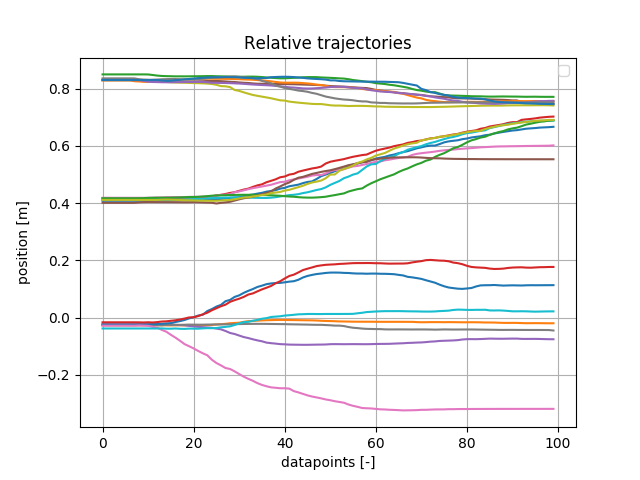
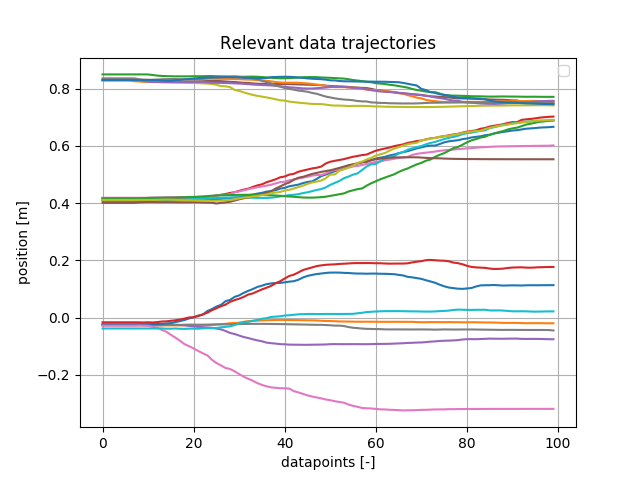
added welford and normal button, debugged the refinement a bitmore

Changed region(s): [[0.3438, 0.0625, 0.6875, 0.125]]

diff --git a/gui/nodes/gui.py b/gui/nodes/gui.py
@@ -90,7 +90,7 @@ class experimentGUI(QMainWindow):
         self.centralwidget = QWidget(self)
         self.centralwidget.setObjectName("centralwidget")
         self.groupBox_2 = QGroupBox(self.centralwidget)
-        self.groupBox_2.setGeometry(QRect(350, 690, 351, 171))
+        self.groupBox_2.setGeometry(QRect(350, 690, 351, 241))
         self.groupBox_2.setObjectName("groupBox_2")
         self.pushButton_6 = QPushButton(self.groupBox_2)
         self.pushButton_6.setGeometry(QRect(0, 120, 150, 27))
@@ -107,6 +107,23 @@ class experimentGUI(QMainWindow):
         self.pushButton_10 = QPushButton(self.groupBox_2)
         self.pushButton_10.setGeometry(QRect(180, 30, 150, 27))
         self.pushButton_10.setObjectName("pushButton_10")
+        self.radioButton_2 = QRadioButton(self.groupBox_2)
+        self.radioButton_2.setGeometry(QRect(40, 150, 117, 22))
+        self.radioButton_2.setObjectName("radioButton_2")
+        self.radioButton_3 = QRadioButton(self.groupBox_2)
+        self.radioButton_3.setGeometry(QRect(40, 180, 117, 22))
+        self.radioButton_3.setObjectName("radioButton_3")
+        self.pushButton_24 = QPushButton(self.groupBox_2)
+        self.pushButton_24.setGeometry(QRect(180, 60, 150, 27))
+        self.pushButton_24.setObjectName("pushButton_24")
+        self.pushButton_6.raise_()
+        self.pushButton_21.raise_()
+        self.pushButton_22.raise_()
+        self.pushButton_23.raise_()
+        self.pushButton_10.raise_()
+        self.radioButton_2.raise_()
+        self.radioButton_3.raise_()
+        self.pushButton_24.raise_()
         self.groupBox_3 = QGroupBox(self.centralwidget)
         self.groupBox_3.setGeometry(QRect(620, 690, 521, 291))
         self.groupBox_3.setObjectName("groupBox_3")
@@ -170,7 +187,6 @@ class experimentGUI(QMainWindow):
         self.pushButton_12.raise_()
         self.pushButton_11.raise_()
         self.pushButton_14.raise_()
-
         self.groupBox = QGroupBox(self.centralwidget)
         self.groupBox.setGeometry(QRect(0, 690, 331, 161))
         self.groupBox.setObjectName("groupBox")
@@ -207,9 +223,6 @@ class experimentGUI(QMainWindow):
         self.lineEdit_2.raise_()
         self.label_3.raise_()
         self.lineEdit_3.raise_()
-        self.groupBox_4 = QGroupBox(self.centralwidget)
-        self.groupBox_4.setGeometry(QRect(10, 10, 1661, 671))
-        self.groupBox_4.setObjectName("groupBox_4")
         self.groupBox_6 = QGroupBox(self.centralwidget)
         self.groupBox_6.setGeometry(QRect(1210, 690, 431, 301))
         self.groupBox_6.setObjectName("groupBox_6")
@@ -298,7 +311,7 @@ class experimentGUI(QMainWindow):
         self.checkBox_3.setGeometry(QRect(201, 197, 39, 22))
         self.checkBox_3.setObjectName("checkBox_3")
         self.groupBox_5 = QGroupBox(self.centralwidget)
-        self.groupBox_5.setGeometry(QRect(20, 860, 441, 141))
+        self.groupBox_5.setGeometry(QRect(20, 860, 271, 141))
         self.groupBox_5.setObjectName("groupBox_5")
         self.label_17 = QLabel(self.groupBox_5)
         self.label_17.setGeometry(QRect(40, 37, 31, 17))
@@ -318,6 +331,9 @@ class experimentGUI(QMainWindow):
         self.pushButton_2 = QPushButton(self.groupBox_5)
         self.pushButton_2.setGeometry(QRect(170, 90, 88, 27))
         self.pushButton_2.setObjectName("pushButton_2")
+        self.groupBox_4 = QGroupBox(self.centralwidget)
+        self.groupBox_4.setGeometry(QRect(10, 10, 1641, 671))
+        self.groupBox_4.setObjectName("groupBox_4")
         self.setCentralWidget(self.centralwidget)
         self.menubar = QMenuBar(self)
         self.menubar.setGeometry(QRect(0, 0, 1650, 25))
@@ -330,8 +346,6 @@ class experimentGUI(QMainWindow):
         self.setStatusBar(self.statusbar)
         self.menubar.addAction(self.menuOnline_teaching_GUI.menuAction())
 
-
-        
         self.lineEdit.setText("0.8")
         self.lineEdit_2.setText("0.0")
         self.lineEdit_3.setText("0.9")
@@ -552,8 +566,12 @@ class experimentGUI(QMainWindow):
     def on_add_to_model_click(self):
 
         try:
-            # rospy.wait_for_service('add_demonstration', timeout=2.0)
-            rospy.wait_for_service('welford_update', timeout=2.0)
+            if self.radioButton_2.isChecked():
+                rospy.wait_for_service('welford_update', timeout=2.0)
+
+            elif self.radioButton_3.isChecked():
+                rospy.wait_for_service('add_demonstration', timeout=2.0)
+
 
             rospy.wait_for_service('get_object_position', timeout=2.0)
 
@@ -569,14 +587,23 @@ class experimentGUI(QMainWindow):
 
                 refined_trajectory_wrt_object = self.parser.get_trajectory_wrt_context(refined_trajectory, self.parser.point_to_list(object_wrt_base))
 
-                # add_demonstration = rospy.ServiceProxy('add_demonstration', AddDemonstration)
-                welford_update = rospy.ServiceProxy('welford_update', WelfordUpdate)
+                if self.radioButton_2.isChecked():
+                    welford_update = rospy.ServiceProxy('welford_update', WelfordUpdate)
+                elif self.radioButton_3.isChecked():
+                    add_demonstration = rospy.ServiceProxy('add_demonstration', AddDemonstration)
 
                 refined_trajectory_wrt_object_msg = self.parser.predicted_trajectory_to_prompTraj_message(refined_trajectory_wrt_object, self.parser.point_to_list(self.context))
-                # resp = add_demonstration(refined_trajectory_wrt_object_msg)
-                resp = welford_update(refined_trajectory_wrt_object_msg)
                 
-                rospy.loginfo("Added trajectory to model")
+                if self.radioButton_2.isChecked():
+                    resp = welford_update(refined_trajectory_wrt_object_msg)
+                    rospy.loginfo("Added trajectory to model using Welford")
+
+                elif self.radioButton_3.isChecked():
+                    resp = add_demonstration(refined_trajectory_wrt_object_msg)
+                    rospy.loginfo("Added trajectory to model using normal computation")
+                else:
+                    rospy.loginfo("No adding method selected!")
+
             except (AttributeError, ValueError) as e:
                 rospy.loginfo("Problem with adding trajectory: %s" %e)
 
@@ -681,12 +708,16 @@ class experimentGUI(QMainWindow):
     def retranslateUi(self):
         _translate = QCoreApplication.translate
         self.setWindowTitle(_translate("MainWindow", "MainWindow"))
+
         self.groupBox_2.setTitle(_translate("MainWindow", " Refinement"))
         self.pushButton_6.setText(_translate("MainWindow", "Add to model"))
         self.pushButton_21.setText(_translate("MainWindow", "Refine prediction"))
         self.pushButton_22.setText(_translate("MainWindow", "Visualize"))
         self.pushButton_23.setText(_translate("MainWindow", "Refine refinement"))
         self.pushButton_10.setText(_translate("MainWindow", "Calibrate init pose"))
+        self.radioButton_2.setText(_translate("MainWindow", "Welford"))
+        self.radioButton_3.setText(_translate("MainWindow", "Normal"))
+        self.pushButton_24.setText(_translate("MainWindow", "Execute refinement"))
         self.groupBox_3.setTitle(_translate("MainWindow", "                                                            Learning from Demonstration"))
         self.pushButton_7.setText(_translate("MainWindow", "Get context"))
         self.label_5.setText(_translate("MainWindow", "x: "))
@@ -700,13 +731,11 @@ class experimentGUI(QMainWindow):
         self.pushButton_12.setText(_translate("MainWindow", "Start"))
         self.pushButton_11.setText(_translate("MainWindow", "Stop"))
         self.pushButton_14.setText(_translate("MainWindow", "Build model"))
-
         self.groupBox.setTitle(_translate("MainWindow", "     Set object position Gazebo"))
         self.label.setText(_translate("MainWindow", "x: "))
         self.label_2.setText(_translate("MainWindow", "y: "))
         self.label_3.setText(_translate("MainWindow", "z: "))
         self.pushButton_15.setText(_translate("MainWindow", "Random"))
-        self.groupBox_4.setTitle(_translate("MainWindow", "RViz"))
         self.groupBox_6.setTitle(_translate("MainWindow", "Movement"))
         self.label_7.setText(_translate("MainWindow", "z: "))
         self.label_8.setText(_translate("MainWindow", "y: "))
@@ -733,7 +762,9 @@ class experimentGUI(QMainWindow):
         self.label_18.setText(_translate("MainWindow", "Refinement"))
         self.pushButton.setText(_translate("MainWindow", "Start"))
         self.pushButton_2.setText(_translate("MainWindow", "Stop"))
+        self.groupBox_4.setTitle(_translate("MainWindow", "RViz"))
         self.menuOnline_teaching_GUI.setTitle(_translate("MainWindow", "Online teaching GUI"))
+
 
         self.buttonBox.accepted.connect(self.on_set_object_position_click)
         self.pushButton_9.clicked.connect(self.on_clear_trajectories_click)

diff --git a/gui/nodes/experiment.py b/gui/nodes/experiment.py
@@ -15,7 +15,7 @@ class Ui_MainWindow(object):
         self.centralwidget = QtWidgets.QWidget(MainWindow)
         self.centralwidget.setObjectName("centralwidget")
         self.groupBox_2 = QtWidgets.QGroupBox(self.centralwidget)
-        self.groupBox_2.setGeometry(QtCore.QRect(350, 690, 351, 171))
+        self.groupBox_2.setGeometry(QtCore.QRect(350, 690, 351, 241))
         self.groupBox_2.setObjectName("groupBox_2")
         self.pushButton_6 = QtWidgets.QPushButton(self.groupBox_2)
         self.pushButton_6.setGeometry(QtCore.QRect(0, 120, 150, 27))
@@ -32,6 +32,23 @@ class Ui_MainWindow(object):
         self.pushButton_10 = QtWidgets.QPushButton(self.groupBox_2)
         self.pushButton_10.setGeometry(QtCore.QRect(180, 30, 150, 27))
         self.pushButton_10.setObjectName("pushButton_10")
+        self.radioButton_2 = QtWidgets.QRadioButton(self.groupBox_2)
+        self.radioButton_2.setGeometry(QtCore.QRect(40, 150, 117, 22))
+        self.radioButton_2.setObjectName("radioButton_2")
+        self.radioButton_3 = QtWidgets.QRadioButton(self.groupBox_2)
+        self.radioButton_3.setGeometry(QtCore.QRect(40, 180, 117, 22))
+        self.radioButton_3.setObjectName("radioButton_3")
+        self.pushButton_24 = QtWidgets.QPushButton(self.groupBox_2)
+        self.pushButton_24.setGeometry(QtCore.QRect(180, 60, 150, 27))
+        self.pushButton_24.setObjectName("pushButton_24")
+        self.pushButton_6.raise_()
+        self.pushButton_21.raise_()
+        self.pushButton_22.raise_()
+        self.pushButton_23.raise_()
+        self.pushButton_10.raise_()
+        self.radioButton_2.raise_()
+        self.radioButton_3.raise_()
+        self.pushButton_24.raise_()
         self.groupBox_3 = QtWidgets.QGroupBox(self.centralwidget)
         self.groupBox_3.setGeometry(QtCore.QRect(620, 690, 521, 291))
         self.groupBox_3.setObjectName("groupBox_3")
@@ -95,8 +112,8 @@ class Ui_MainWindow(object):
         self.pushButton_12.raise_()
         self.pushButton_11.raise_()
         self.pushButton_14.raise_()
-        self.groupBox = QGroupBox(self.centralwidget)
-        self.groupBox.setGeometry(QRect(0, 690, 331, 161))
+        self.groupBox = QtWidgets.QGroupBox(self.centralwidget)
+        self.groupBox.setGeometry(QtCore.QRect(0, 690, 331, 161))
         self.groupBox.setObjectName("groupBox")
         self.label = QtWidgets.QLabel(self.groupBox)
         self.label.setGeometry(QtCore.QRect(18, 26, 16, 17))
@@ -131,9 +148,6 @@ class Ui_MainWindow(object):
         self.lineEdit_2.raise_()
         self.label_3.raise_()
         self.lineEdit_3.raise_()
-        self.groupBox_4 = QtWidgets.QGroupBox(self.centralwidget)
-        self.groupBox_4.setGeometry(QtCore.QRect(10, 10, 1661, 671))
-        self.groupBox_4.setObjectName("groupBox_4")
         self.groupBox_6 = QtWidgets.QGroupBox(self.centralwidget)
         self.groupBox_6.setGeometry(QtCore.QRect(1210, 690, 431, 301))
         self.groupBox_6.setObjectName("groupBox_6")
@@ -152,7 +166,7 @@ class Ui_MainWindow(object):
         self.label_11 = QtWidgets.QLabel(self.groupBox_6)
         self.label_11.setGeometry(QtCore.QRect(1, 168, 24, 17))
         self.label_11.setObjectName("label_11")
-        self.label_12 = QLabel(self.groupBox_6)
+        self.label_12 = QtWidgets.QLabel(self.groupBox_6)
         self.label_12.setGeometry(QtCore.QRect(1, 135, 24, 17))
         self.label_12.setObjectName("label_12")
         self.label_13 = QtWidgets.QLabel(self.groupBox_6)
@@ -222,7 +236,7 @@ class Ui_MainWindow(object):
         self.checkBox_3.setGeometry(QtCore.QRect(201, 197, 39, 22))
         self.checkBox_3.setObjectName("checkBox_3")
         self.groupBox_5 = QtWidgets.QGroupBox(self.centralwidget)
-        self.groupBox_5.setGeometry(QtCore.QRect(20, 860, 441, 141))
+        self.groupBox_5.setGeometry(QtCore.QRect(20, 860, 271, 141))
         self.groupBox_5.setObjectName("groupBox_5")
         self.label_17 = QtWidgets.QLabel(self.groupBox_5)
         self.label_17.setGeometry(QtCore.QRect(40, 37, 31, 17))
@@ -242,6 +256,9 @@ class Ui_MainWindow(object):
         self.pushButton_2 = QtWidgets.QPushButton(self.groupBox_5)
         self.pushButton_2.setGeometry(QtCore.QRect(170, 90, 88, 27))
         self.pushButton_2.setObjectName("pushButton_2")
+        self.groupBox_4 = QtWidgets.QGroupBox(self.centralwidget)
+        self.groupBox_4.setGeometry(QtCore.QRect(10, 10, 1641, 671))
+        self.groupBox_4.setObjectName("groupBox_4")
         MainWindow.setCentralWidget(self.centralwidget)
         self.menubar = QtWidgets.QMenuBar(MainWindow)
         self.menubar.setGeometry(QtCore.QRect(0, 0, 1650, 25))
@@ -266,6 +283,9 @@ class Ui_MainWindow(object):
         self.pushButton_22.setText(_translate("MainWindow", "Visualize"))
         self.pushButton_23.setText(_translate("MainWindow", "Refine refinement"))
         self.pushButton_10.setText(_translate("MainWindow", "Calibrate init pose"))
+        self.radioButton_2.setText(_translate("MainWindow", "Welford"))
+        self.radioButton_3.setText(_translate("MainWindow", "Normal"))
+        self.pushButton_24.setText(_translate("MainWindow", "Execute refinement"))
         self.groupBox_3.setTitle(_translate("MainWindow", "                                                            Learning from Demonstration"))
         self.pushButton_7.setText(_translate("MainWindow", "Get context"))
         self.label_5.setText(_translate("MainWindow", "x: "))
@@ -284,7 +304,6 @@ class Ui_MainWindow(object):
         self.label_2.setText(_translate("MainWindow", "y: "))
         self.label_3.setText(_translate("MainWindow", "z: "))
         self.pushButton_15.setText(_translate("MainWindow", "Random"))
-        self.groupBox_4.setTitle(_translate("MainWindow", "RViz"))
         self.groupBox_6.setTitle(_translate("MainWindow", "Movement"))
         self.label_7.setText(_translate("MainWindow", "z: "))
         self.label_8.setText(_translate("MainWindow", "y: "))
@@ -311,5 +330,6 @@ class Ui_MainWindow(object):
         self.label_18.setText(_translate("MainWindow", "Refinement"))
         self.pushButton.setText(_translate("MainWindow", "Start"))
         self.pushButton_2.setText(_translate("MainWindow", "Stop"))
+        self.groupBox_4.setTitle(_translate("MainWindow", "RViz"))
         self.menuOnline_teaching_GUI.setTitle(_translate("MainWindow", "Online teaching GUI"))
 

diff --git a/trajectory_refinement/nodes/trajectory_refinement_promp.py b/trajectory_refinement/nodes/trajectory_refinement_promp.py
@@ -5,6 +5,9 @@ import rospy, time, os, rospkg
 import numpy as np
 from scipy.interpolate import interp1d
 import matplotlib.pyplot as plt
+import matplotlib
+matplotlib.use('Agg')
+
 from pyquaternion import Quaternion
 
 # import ros messages
@@ -84,7 +87,7 @@ class trajectoryRefinement():
 
     
         # calibrate master pose
-        # self.initMasterNormalizePose()
+        self.calibrate_master_pose_for_normalization()
 
 
     def _get_parameters(self):
@@ -157,6 +160,7 @@ class trajectoryRefinement():
         return response
 
     def calibrate_master_pose_for_normalization(self):
+        rospy.wait_for_message('/master_control_comm', ControlComm, timeout=5.0)
         self.firstMasterPose = PoseStamped()
         self.firstMasterPose.pose.position.x = self.master_pose.position.x
         self.firstMasterPose.pose.position.y = self.master_pose.position.y
@@ -167,6 +171,8 @@ class trajectoryRefinement():
         self.firstMasterPose.pose.orientation.y = self.master_pose.orientation.y
         self.firstMasterPose.pose.orientation.z = self.master_pose.orientation.z
         self.firstMasterPose.pose.orientation.w = self.master_pose.orientation.w
+
+        rospy.loginfo('Calibrated master pose for refinement')
 
     def initMasterNormalizePose(self):
         self.firstMasterPose = PoseStamped()
@@ -400,19 +406,18 @@ class trajectoryRefinement():
         plt.savefig('/home/fmeccanici/Documents/thesis/figures/debug_refinement/comparison_new_predicted_DTW_resampling_both.png')
         plt.close()   
 
-        # new_traj is wrt base so make it relative to the object
         # object_pos_wrt_base = self.getMarkerWRTBase()
         # new_traj = self.parser.get_trajectory_wrt_context(new_traj, object_pos_wrt_base)
         # plt.figure()
-        # plt.plot(self.parser.getCartesianPositions(new_traj), color='green', label='refined')
-        # # plt.plot(self.parser.getCartesianPositions(pred_aligned), color='red', label='predicted')
-        # plt.title("Relative trajectory")
-        # plt.xlabel("datapoint [-]")
-        # plt.ylabel("position [m]")
-        # plt.grid()
-        # plt.legend()
-        # plt.savefig('/home/fmeccanici/Documents/thesis/figures/debug_refinement/new_traj_relative.png')
-        # plt.close()   
+        plt.plot(self.parser.getCartesianPositions(new_traj))
+        # plt.plot(self.parser.getCartesianPositions(pred_aligned), color='red', label='predicted')
+        plt.title("Relative trajectory")
+        plt.xlabel("datapoint [-]")
+        plt.ylabel("position [m]")
+        plt.grid()
+        plt.legend()
+        plt.savefig('/home/fmeccanici/Documents/thesis/figures/debug_refinement/new_traj_relative.png')
+        plt.close()   
 
         context = [req.trajectory.object_position.x, req.trajectory.object_position.y, req.trajectory.object_position.z]
         new_traj_msg = self.parser.predicted_trajectory_to_prompTraj_message(new_traj, context)

diff --git a/learning_from_demonstration/src/learning_from_demonstration_python/learning_from_demonstration.py b/learning_from_demonstration/src/learning_from_demonstration_python/learning_from_demonstration.py
@@ -139,7 +139,7 @@ class learningFromDemonstration():
             # plt.plot([x[7:10] for x in traj])
             plt.xlabel("datapoints [-]")
             plt.ylabel("position [m]")
-            plt.title("Relative trajectories")
+            plt.title("Relevant data trajectories")
             plt.legend()
         plt.grid()
         plt.savefig('/home/fmeccanici/Documents/thesis/thesis_workspace/src/learning_from_demonstration/figures/relevant_data_trajectories.png')
@@ -209,7 +209,7 @@ class learningFromDemonstration():
         self.num_samples = len(self.trajectories_for_learning[0])
         
         # default value
-        num_basis = 10
+        num_basis = 20
 
         # default value
         sigma = 0.1
@@ -242,7 +242,6 @@ class learningFromDemonstration():
             
     def generalize(self, context):
         # generate trajectory using ProMP package
-        
         pred_traj = self.promps[0].generate_trajectory(context)     
         for promp in self.promps[1:]:
             pred = promp.generate_trajectory(context)

diff --git a/promp_context_ros/src/promp_context/promp_context.py b/promp_context_ros/src/promp_context/promp_context.py
@@ -140,7 +140,11 @@ class ProMPContext(object):
             # print("mean_total_before = " + str((self.mean_total)))
 
             # do a welford update step and update the mean and variance
-            welford = Welford(N=self.nr_traj, Mean=self.mean_total, Sigma=self.sigma_total)
+            print("Number of trajectories = " + str(self.nr_traj))
+            N = self.nr_traj
+            # N = 2
+
+            welford = Welford(N=N, Mean=self.mean_total, Sigma=self.sigma_total)
             mean_total, sigma_total = welford.update(x)
 
             self.mean_total = mean_total
